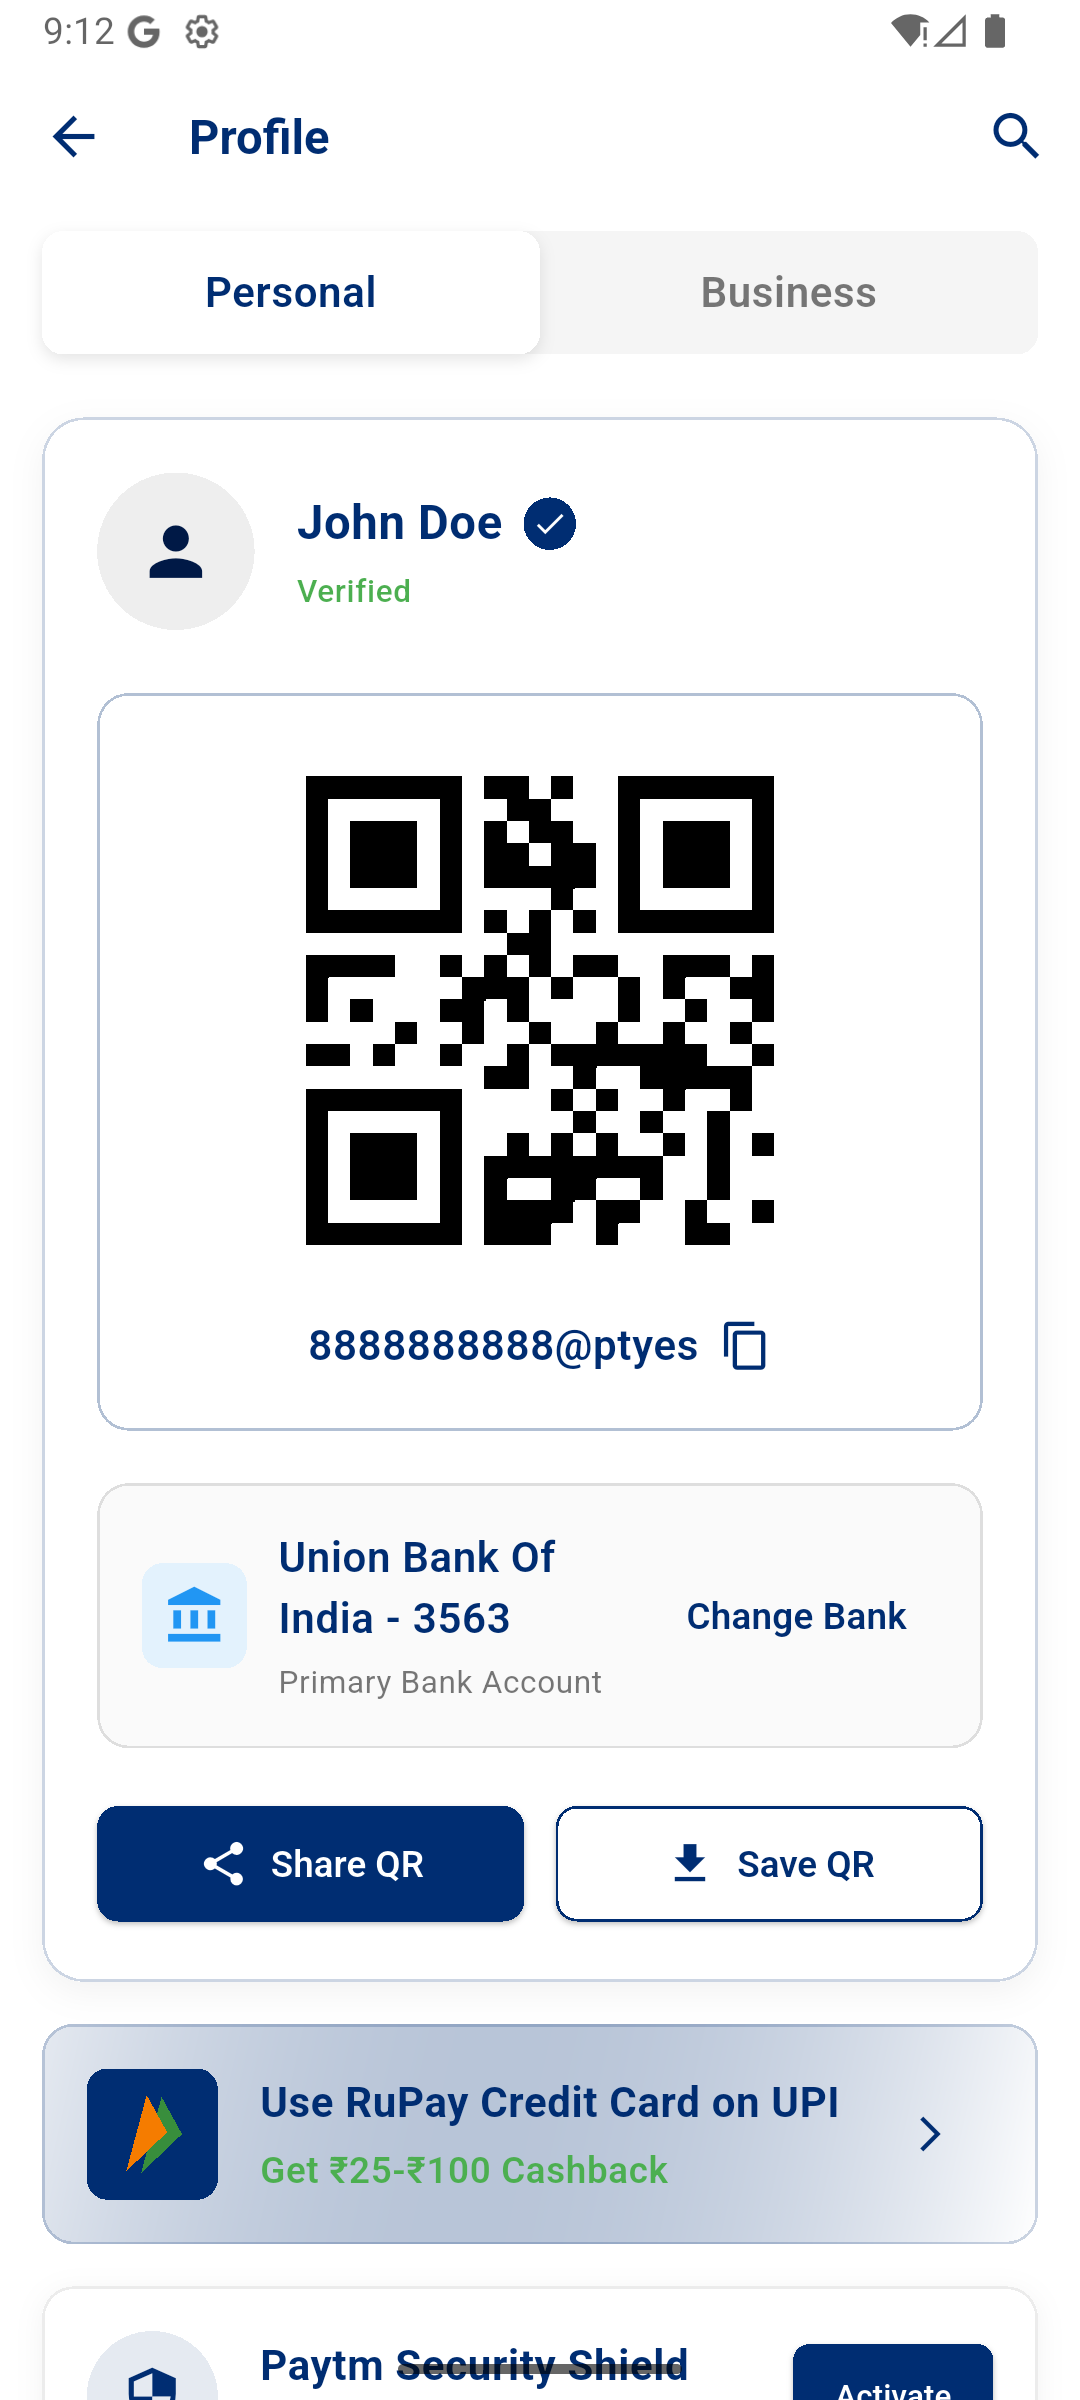
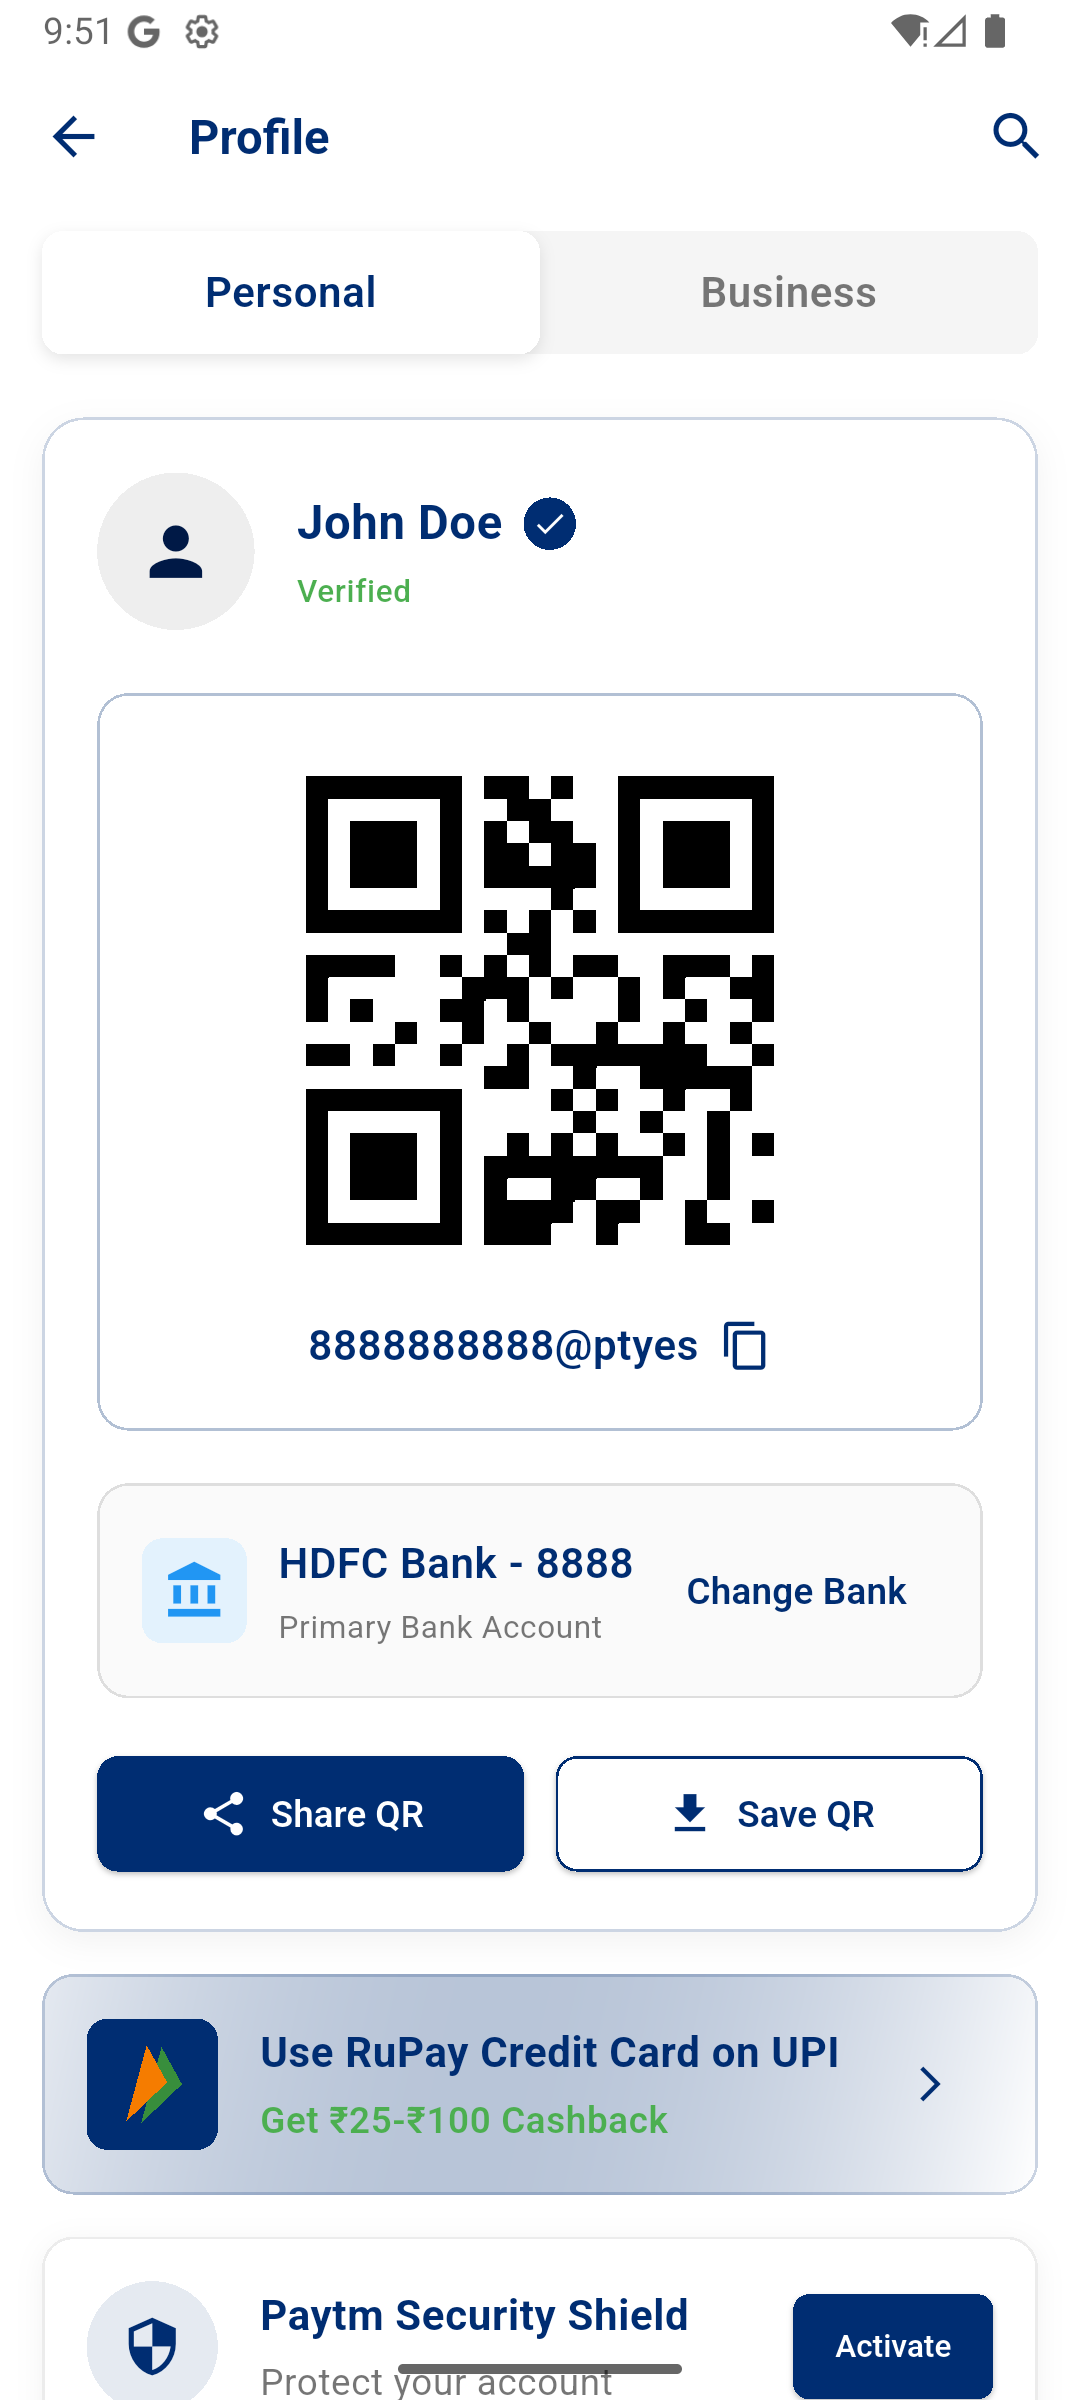
Fix Flutter app compilation errors
- Fixed pubspec.yaml asset path references
- Corrected import statements from assets_helper to asset_helper
- Fixed AssetHelper class name references to assetsHelper
- Fixed method names and parameter names in UPI Money Transfer card
- Resolved SvgPicture.asset vs SvgPicture.assets issues
- App now compiles and runs successfully

diff --git a/lib/widgets/upi_money_transfer_card.dart b/lib/widgets/upi_money_transfer_card.dart
@@ -33,8 +33,8 @@ class UpiMoneyTransferCard extends StatelessWidget {
                 title: "Scan \nPay",
                 onTap: () {},
               ),
-              _buildActionItemWithAsset(
-                assetPath: AssetHelper.bhimIcon,
+              _buildActionItemWithassets(
+                assetsPath: assetsHelper.bhimIcon,
                 title: "BHIM \nUPI",
                 onTap: () {},
               ),
@@ -88,8 +88,8 @@ class UpiMoneyTransferCard extends StatelessWidget {
     );
   }
 
-  Widget _buildActionItemWithAsset({
-    required String assetPath,
+  Widget _buildActionItemWithassets({
+    required String assetsPath,
     required String title,
     required VoidCallback onTap,
   }) {
@@ -106,7 +106,7 @@ class UpiMoneyTransferCard extends StatelessWidget {
             ),
             child: Padding(
               padding: const EdgeInsets.all(12),
-              child: SvgPicture.asset(assetPath, width: 36, height: 36),
+              child: SvgPicture.asset(assetsPath, width: 36, height: 36),
             ),
           ),
           const SizedBox(height: 8),

diff --git a/lib/screens/profile_screen.dart b/lib/screens/profile_screen.dart
@@ -326,7 +326,7 @@ class _ProfileScreenState extends State<ProfileScreen>
                             crossAxisAlignment: CrossAxisAlignment.start,
                             children: [
                               Text(
-                                "Union Bank Of India - 3563",
+                                "HDFC Bank - 8888",
                                 style: GoogleFonts.inter(
                                   fontSize: 16,
                                   fontWeight: FontWeight.w600,
@@ -438,7 +438,7 @@ class _ProfileScreenState extends State<ProfileScreen>
                     child: Padding(
                       padding: const EdgeInsets.all(8),
                       child: SvgPicture.asset(
-                        AssetHelper.bhimIcon,
+                        assetsHelper.bhimIcon,
                         width: 34,
                         height: 34,
                       ),

diff --git a/lib/widgets/header_section.dart b/lib/widgets/header_section.dart
@@ -53,7 +53,7 @@ class HeaderSection extends StatelessWidget {
             child: Row(
               mainAxisAlignment: MainAxisAlignment.start,
               children: [
-                SvgPicture.asset(AssetHelper.paytmLogo48, height: 60),
+                SvgPicture.asset(assetsHelper.paytmLogo48, height: 60),
                 const SizedBox(width: 4),
                 Icon(Icons.favorite, color: AppTheme.heartRed, size: 24),
                 const SizedBox(width: 4),
@@ -69,7 +69,7 @@ class HeaderSection extends StatelessWidget {
                   decoration: BoxDecoration(
                     borderRadius: BorderRadius.circular(8),
                   ),
-                  child: SvgPicture.asset(AssetHelper.bhimIcon, height: 24),
+                  child: SvgPicture.asset(assetsHelper.bhimIcon, height: 24),
                 ),
               ],
             ),

diff --git a/lib/data/repositories/app_repositories.dart b/lib/data/repositories/app_repositories.dart
@@ -34,7 +34,7 @@ class UserRepositoryImpl implements UserRepository {
 
     return const UserModel(
       name: "John Doe",
-      profileImage: "assets/images/profile.jpg",
+      profileImage: "assetss/images/profile.jpg",
       upiId: "8888888888@ptyes",
       bankName: "HDFC Bank",
       accountLastFour: "8888",
@@ -60,7 +60,7 @@ class TransactionRepositoryImpl implements TransactionRepository {
     return [
       TransactionModel(
         id: "1",
-        senderName: "Priya D",
+        senderName: "Deepak M",
         amount: 95900.0,
         timestamp: DateTime.now().subtract(const Duration(minutes: 30)),
         type: "received",

diff --git a/lib/widgets/financial_services_section.dart b/lib/widgets/financial_services_section.dart
@@ -50,7 +50,7 @@ class FinancialServicesSection extends StatelessWidget {
                           ),
                           const SizedBox(width: 8),
                           Image.asset(
-                            AssetHelper.loveIcon,
+                            assetsHelper.loveIcon,
                             width: 20,
                             height: 20,
                           ),

diff --git a/lib/services/data_service.dart b/lib/services/data_service.dart
@@ -4,7 +4,7 @@ class DataService {
   static UserData getCurrentUser() {
     return UserData(
       name: "John Doe",
-      profileImage: "assets/images/profile.jpg",
+      profileImage: "assetss/images/profile.jpg",
       upiId: "8888888888@ptyes",
       bankName: "HDFC Bank",
       accountLastFour: "8888",

diff --git a/lib/utils/asset_helper.dart b/lib/utils/asset_helper.dart
@@ -1,6 +1,6 @@
-class AssetHelper {
-  // Base path for assets
-  static const String _basePath = 'asset/';
+class assetsHelper {
+  // Base path for assetss
+  static const String _basePath = 'assets/';
 
   // Paytm Icons
   static const String paytmLogo144 = '${_basePath}icons8-paytm-144.svg';

diff --git a/README.md b/README.md
@@ -90,7 +90,7 @@ lib/
 ├── theme/
 │   └── app_theme.dart        # App theme configuration
 └── utils/
-    └── asset_helper.dart     # Asset management utilities
+    └── assets_helper.dart     # assets management utilities
 ```
 
 ## Dependencies
@@ -171,7 +171,7 @@ Modular widget structure for:
 The app replicates the authentic Paytm interface with modern UI design and smooth user interactions:
 
 ### 🏠 Home Screen
-![Home Screen](assets/screenshots/Screenshot1.png)
+![Home Screen](assetss/screenshots/Screenshot1.png)
 - Clean white card layouts with Paytm brand colors
 - UPI Money Transfer section with proper Material Icons
 - Recharge & Bills card with service options
@@ -180,7 +180,7 @@ The app replicates the authentic Paytm interface with modern UI design and smoot
 - Floating Scan QR button
 
 ### 📱 Profile Screen
-![Profile Screen](assets/screenshots/Screenshot4.png)
+![Profile Screen](assetss/screenshots/Screenshot4.png)
 - Personal/Business tab navigation
 - User profile with verification status
 - QR code display with UPI ID
@@ -189,14 +189,14 @@ The app replicates the authentic Paytm interface with modern UI design and smoot
 - Paytm Security Shield section
 
 ### 💳 Recharge & Bills Popup
-![Recharge & Bills Popup](assets/screenshots/Screenshot3.png)
+![Recharge & Bills Popup](assetss/screenshots/Screenshot3.png)
 - 3x3 grid of service options
 - Clean modal design with proper spacing
 - Service categories: Credit cards, insurance, mobile, broadband, gas, DTH, Google Play
 - "No Fee" promotional tags
 
 ### 📱 Additional Screen
-![Additional Screen](assets/screenshots/Screenshot2.png)
+![Additional Screen](assetss/screenshots/Screenshot2.png)
 - Additional app functionality and features
 - Enhanced user interface components
 - Extended service options and navigation

diff --git a/ios/Runner/Assets.xcassets/LaunchImage.imageset/README.md b/ios/Runner/Assets.xcassets/LaunchImage.imageset/README.md
@@ -1,5 +1,5 @@
-# Launch Screen Assets
+# Launch Screen assetss
 
-You can customize the launch screen with your own desired assets by replacing the image files in this directory.
+You can customize the launch screen with your own desired assetss by replacing the image files in this directory.
 
-You can also do it by opening your Flutter project's Xcode project with `open ios/Runner.xcworkspace`, selecting `Runner/Assets.xcassets` in the Project Navigator and dropping in the desired images.
+You can also do it by opening your Flutter project's Xcode project with `open ios/Runner.xcworkspace`, selecting `Runner/assetss.xcassetss` in the Project Navigator and dropping in the desired images.
